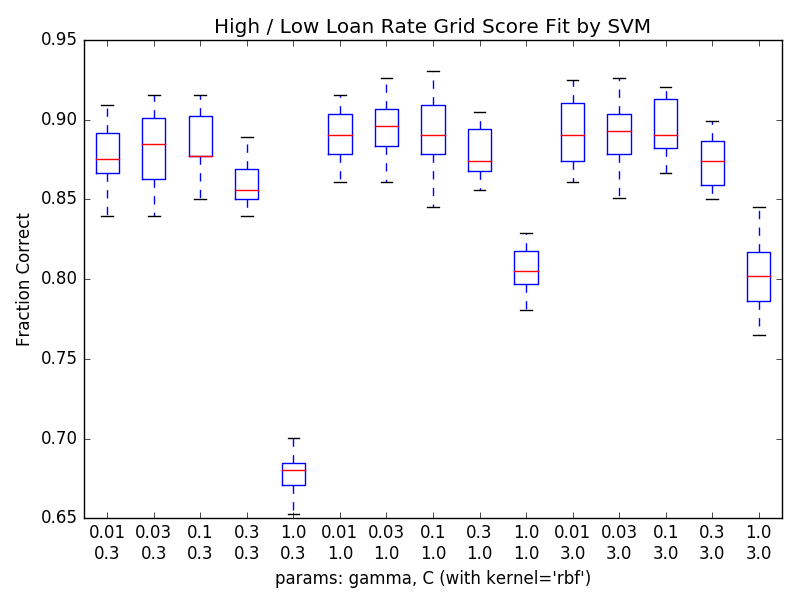
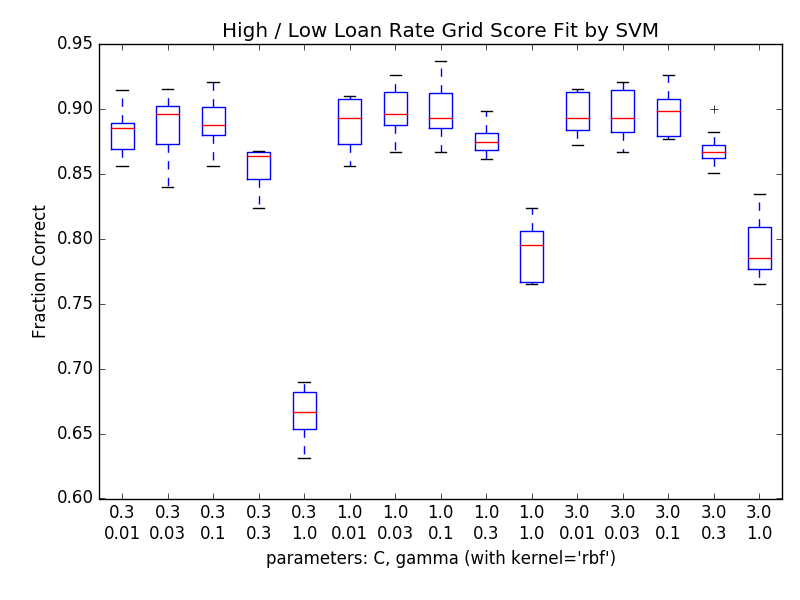
add stats of gridscore data

diff --git a/svm_predict.py b/svm_predict.py
@@ -10,7 +10,9 @@ import matplotlib.pyplot as plt
 from sklearn import svm, cross_validation
 from sklearn.preprocessing import StandardScaler
 from sklearn.grid_search import GridSearchCV
-from naive_bayes import read_data
+import scipy.stats as sst
+
+from naive_bayes import read_data, get_var_str
 
 
 def make_plotdir():
@@ -19,7 +21,16 @@ def make_plotdir():
         os.mkdir(plotdir)
     return plotdir
 
-def gridscoreBoxplot(gslist, plotdir, label, xlabel):
+# doesn't seem to work if called multiple times
+def do_grid_search(clf, param_grid, loans_X, loans_y):
+    gs = GridSearchCV(estimator=clf, param_grid=param_grid, cv=10, \
+      verbose=1, n_jobs=-1, scoring='accuracy')
+    gs.fit(loans_X, loans_y)  # fit all grid parameters
+    print("gs grid scores\n", gs.grid_scores_)
+    print("gs best score %.5f %s\n%s" % \
+      (gs.best_score_, gs.best_params_, gs.best_estimator_))
+
+def gridscore_boxplot(gslist, plotdir, label, xlabel):
     '''boxplot of grid score'''
     vals = list(map(lambda e: e.cv_validation_scores, gslist))
     labs = list(map(lambda e: list(e.parameters.values()), gslist))
@@ -27,7 +38,7 @@ def gridscoreBoxplot(gslist, plotdir, label, xlabel):
         labs = list(map(lambda e: reduce(lambda a,b: str(a)+"\n"+str(b), e), labs))
     else:
         # labs = list(map(lambda e: str(e[0]), labs))
-        labs = [str(e[0]) for e in labs]
+        labs = [str(lab[0]) for lab in labs]
     xpar = list(gslist[0].parameters.keys())
     if len(xpar) > 1:
         xpar = reduce(lambda a,b: a+", "+b, xpar)
@@ -36,18 +47,73 @@ def gridscoreBoxplot(gslist, plotdir, label, xlabel):
     plt.clf()
     plt.boxplot(vals, labels=labs)
     plt.title("High / Low Loan Rate Grid Score Fit by SVM")
-    plt.xlabel("params: " + xpar + " (with " + xlabel + ")")
+    plt.xlabel("parameters: " + xpar + " (with " + xlabel + ")")
     plt.ylabel("Fraction Correct")
     plt.tight_layout()
     plt.savefig(plotdir + "gridscore_" + label)
+
+def plot_predict(label, indep_variables, pred_df, theo=False):
+    '''plot predicted correct and incorrect target values'''
+    incorrect = pred_df[ pred_df['target'] != pred_df['predict'] ]
+    correct   = pred_df[ pred_df['target'] == pred_df['predict'] ]
+    plt.clf()
+    plt.scatter(correct['FICO.Score'], correct['Amount.Requested'], c=correct['target'], \
+         linewidths=0)
+    ctag = incorrect['target']
+    if (theo):
+        ctag = incorrect['predict']
+    plt.scatter(incorrect['FICO.Score'], incorrect['Amount.Requested'], c=ctag, \
+         linewidths=1, s=20, marker='x')
+    plt.xlim(620, 850)
+    plt.ylim(0, 45000)
+    locs, labels = plt.yticks()
+    plt.yticks(locs, map(lambda x: '$'+str(int(x/1000))+'k', locs))
+    plt.xlabel('FICO Score')
+    plt.ylabel('Loan Amount Requested, USD')
+    plt.title('SVM Predicted High / Low Interest Rate')
+    score = 100 * float(len(correct)) / pred_df.shape[0]
+    txt = "Score: %.1f%% correct" % (score)
+    txt2 = "%d x, %d o" % (len(incorrect), len(correct))
+    plt.text(630, 42000, txt, fontsize=10)
+    dbox = dict(edgecolor='black', fill=False)
+    plt.text(720, 42000, txt2, bbox=dbox, fontsize=10)
+    plt.text(781, 42000, 'red > 12%, blue < 12%', bbox=dbox, fontsize=10)
+    txt, pos = get_var_str(indep_variables)
+    plt.text(630, 38000 + 1500*(2-pos), txt, fontsize=10)
+    pname = plotdir+label+'_svm_intrate_'
+    if (theo):
+        pname += 'theo'
+    else:
+        pname += 'predict'
+    plt.savefig(pname+'.png')
+
+def do_ttests(gslist):
+    '''test if scores are significantly different using t-test statistics'''
+    vals = list(map(lambda e: e.cv_validation_scores, gslist))
+#    print("grid score vals", vals)
+    pvals = []
+    for i, val in enumerate(vals):
+        if i>0:
+            pvals.append(sst.ttest_ind(vals[i-1], val).pvalue)
+    qvals = [sst.ttest_ind(vals[i-1], val).pvalue if i>0 else 20 for i, val in enumerate(vals)]
+    qvals.remove(20)
+    print("ttest qvalues", qvals)
+    print("ttest pvalues", pvals)
+    isit = list(filter(lambda e: e < 0.05, pvals))
+    isit = (len(isit) > 0)
+    if (not isit):
+        print("No significant difference in any parameters (p-values > 0.05).")
+    else:
+        print("Some significant differences in parameters (p-values < 0.05).")
+    return isit
 
 # main program
 if __name__ == '__main__':
     loansData, testData = read_data()
     
-    dep_variables = ['IR_TF']
-    loans_y = pd.Series( loansData['IR_TF'] )
-    test_y = testData['IR_TF']
+    dep_variables = 'IR_TF'
+    loans_y = pd.Series( loansData[dep_variables] )
+    test_y = pd.Series( testData[dep_variables] )
     
     all_numeric_vars = ['FICO.Score', 'Amount.Requested', 'Home.Type', 'Revolving.CREDIT.Balance', 'Monthly.Income', 'Open.CREDIT.Lines', 'Debt.To.Income.Ratio', 'Loan.Length', 'Loan.Purpose.Score', 'Amount.Funded.By.Investors', 'Inquiries.in.the.Last.6.Months']
     print('\nall_vars', all_numeric_vars)
@@ -57,9 +123,16 @@ if __name__ == '__main__':
     loans_X = pd.DataFrame( loansData[indep_variables] )
     test_X = pd.DataFrame( testData[indep_variables] )
     
+    two_variables = ['FICO.Score', 'Amount.Requested']
+    pred_df = pd.DataFrame( test_X[two_variables] )
+    
+    print("\nloans_X head", loans_X.__class__, loans_X.shape, "\n", loans_X[:5])
+    print("loans_y head", loans_y.__class__, loans_y.shape, "\n", loans_y[:5])
+    print("test_X head", test_X.__class__, test_X.shape, "\n", test_X[:5])
+    
     scaler = StandardScaler()
-    loans_X = scaler.fit_transform(loans_X)
-    test_X = scaler.transform(test_X)
+    loans_X = scaler.fit_transform(loans_X)  # nparray
+    test_X = scaler.transform(test_X)        # nparray
     print("loans_X mean %.5f std %.5f, test_X mean %.5f std %.5f" % \
       (np.mean(loans_X), np.std(loans_X), np.mean(test_X), np.std(test_X)))
     print("scaler mean %s\nscaler std %s" % (scaler.mean_, scaler.scale_))
@@ -67,7 +140,8 @@ if __name__ == '__main__':
 
     print("\nloans_X head", loans_X.__class__, loans_X.shape, "\n", loans_X[:5])
     print("loans_y head", loans_y.__class__, loans_y.shape, "\n", loans_y[:5])
-    
+    print("test_X head", test_X.__class__, test_X.shape, "\n", test_X[:5])
+
     plotdir = make_plotdir()
 
     # initial fit         # verbose=10 max_iter=200
@@ -84,12 +158,12 @@ if __name__ == '__main__':
     print("pred score %.5f (%d of %d)" % \
       (pred_correct/test_y.shape[0], pred_correct, test_y.shape[0]))
     
-    # cross-validate initial fit scores
-    clf = svm.SVC(kernel='linear', C=1.0, cache_size=1000)
-    scores = cross_validation.cross_val_score(clf, loans_X, loans_y, cv=5)
-    print("CV scores mean %.5f +- %.5f  (raw scores %s)" % \
-      (np.mean(scores), 2.0 * np.std(scores), scores))
+    # initial plot predicted data
+    pred_df['target'] = test_y
+    pred_df['predict'] = pred_y
+    plot_predict("allvar", indep_variables, pred_df)
 
+    # explore fit parameterson training data
     # grid search of fit scores
     clf = svm.SVC(kernel='linear', cache_size=1000)  # 3.1 s
     param_grid = [{'C': [0.01, 0.03, 0.1, 0.3, 1.0, 3.0, 10.0]}]
@@ -99,8 +173,10 @@ if __name__ == '__main__':
     print("gs grid scores\n", gs.grid_scores_)
     print("gs best score %.5f %s\n%s" % \
       (gs.best_score_, gs.best_params_, gs.best_estimator_))
-    gridscoreBoxplot(gs.grid_scores_, plotdir, "C", "kernel='linear'")
+    gridscore_boxplot(gs.grid_scores_, plotdir, "C", "kernel='linear'")
+
     # how to test if scores are significantly different?  stats!
+    do_ttests(gs.grid_scores_)
     
     clf = svm.SVC(kernel='rbf', cache_size=1000)  # 4.5 s
     param_grid = [{'gamma': [0.01, 0.03, 0.1, 0.3, 1.0, 3.0, 10.0]}]
@@ -110,7 +186,8 @@ if __name__ == '__main__':
     print("gs grid scores\n", gs.grid_scores_)
     print("gs best score %.5f %s\n%s" % \
       (gs.best_score_, gs.best_params_, gs.best_estimator_))
-    gridscoreBoxplot(gs.grid_scores_, plotdir, "rbf_gamma", "kernel='rbf'")
+    gridscore_boxplot(gs.grid_scores_, plotdir, "rbf_gamma", "kernel='rbf'")
+    do_ttests(gs.grid_scores_)
 
     clf = svm.SVC(kernel='rbf', cache_size=1000)  # 6.5 s
     param_grid = [{'gamma': [0.01, 0.03, 0.1, 0.3, 1.0], \
@@ -121,17 +198,27 @@ if __name__ == '__main__':
     print("gs grid scores\n", gs.grid_scores_)
     print("gs best score %.5f %s\n%s" % \
       (gs.best_score_, gs.best_params_, gs.best_estimator_))
-    gridscoreBoxplot(gs.grid_scores_, plotdir, "rbf_gammaC", "kernel='rbf'")
+    gridscore_boxplot(gs.grid_scores_, plotdir, "rbf_gammaC", "kernel='rbf'")
+    do_ttests(gs.grid_scores_)
 
     clf = svm.LinearSVC()   # 1.6 s  fast
     param_grid = [{'C': [0.01, 0.03, 0.1, 0.3, 1.0, 3.0, 10.0]}]
+#    do_grid_search(clf, param_grid, loans_X, loans_y)
     gs = GridSearchCV(estimator=clf, param_grid=param_grid, cv=10, \
       verbose=1, n_jobs=-1, scoring='accuracy')
     gs.fit(loans_X, loans_y)  # fit all grid parameters
     print("gs grid scores\n", gs.grid_scores_)
     print("gs best score %.5f %s\n%s" % \
       (gs.best_score_, gs.best_params_, gs.best_estimator_))
-    gridscoreBoxplot(gs.grid_scores_, plotdir, "LinearSVC", "LinearSVC")
+    gridscore_boxplot(gs.grid_scores_, plotdir, "LinearSVC", "LinearSVC")
+    do_ttests(gs.grid_scores_)
+    
+    # cross-validate reasonable optimum fit scores
+    clf = svm.SVC(kernel='linear', C=1.0, cache_size=1000)
+    scores = cross_validation.cross_val_score(clf, loans_X, loans_y, cv=10)
+    print("CV scores mean %.5f +- %.5f" % (np.mean(scores), 2.0 * np.std(scores)))
+    print("CV raw scores", scores)
+
 
 
 
